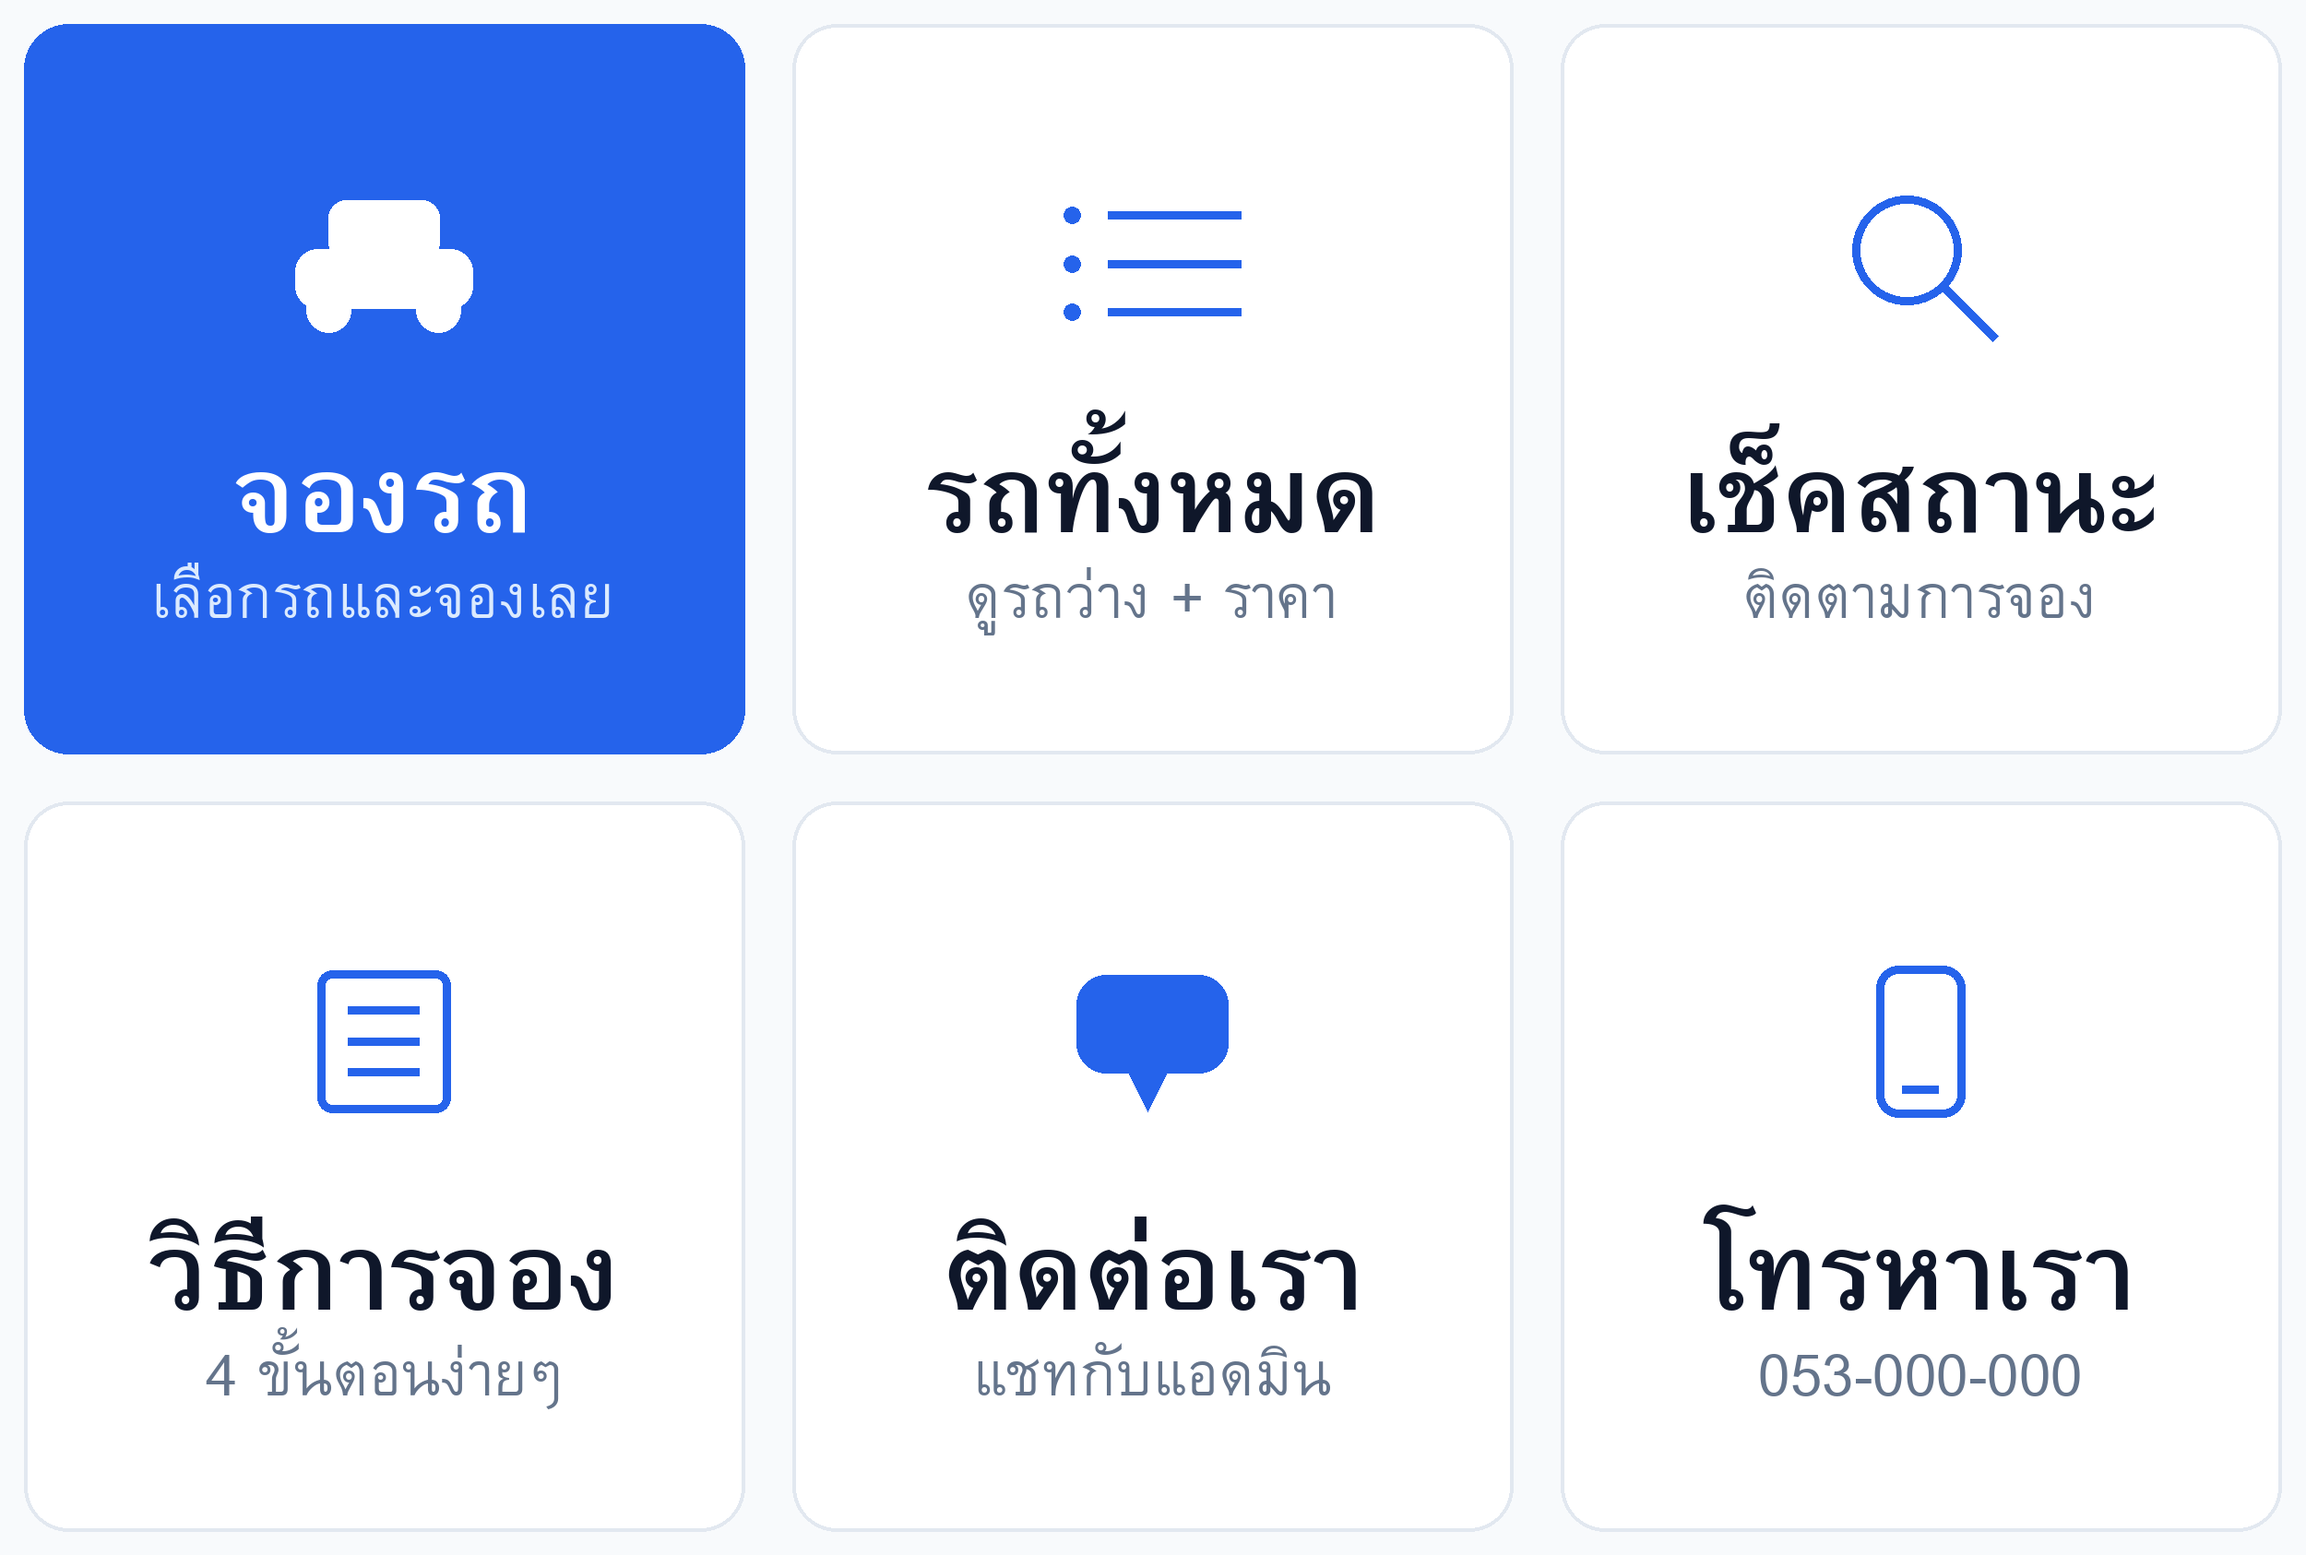
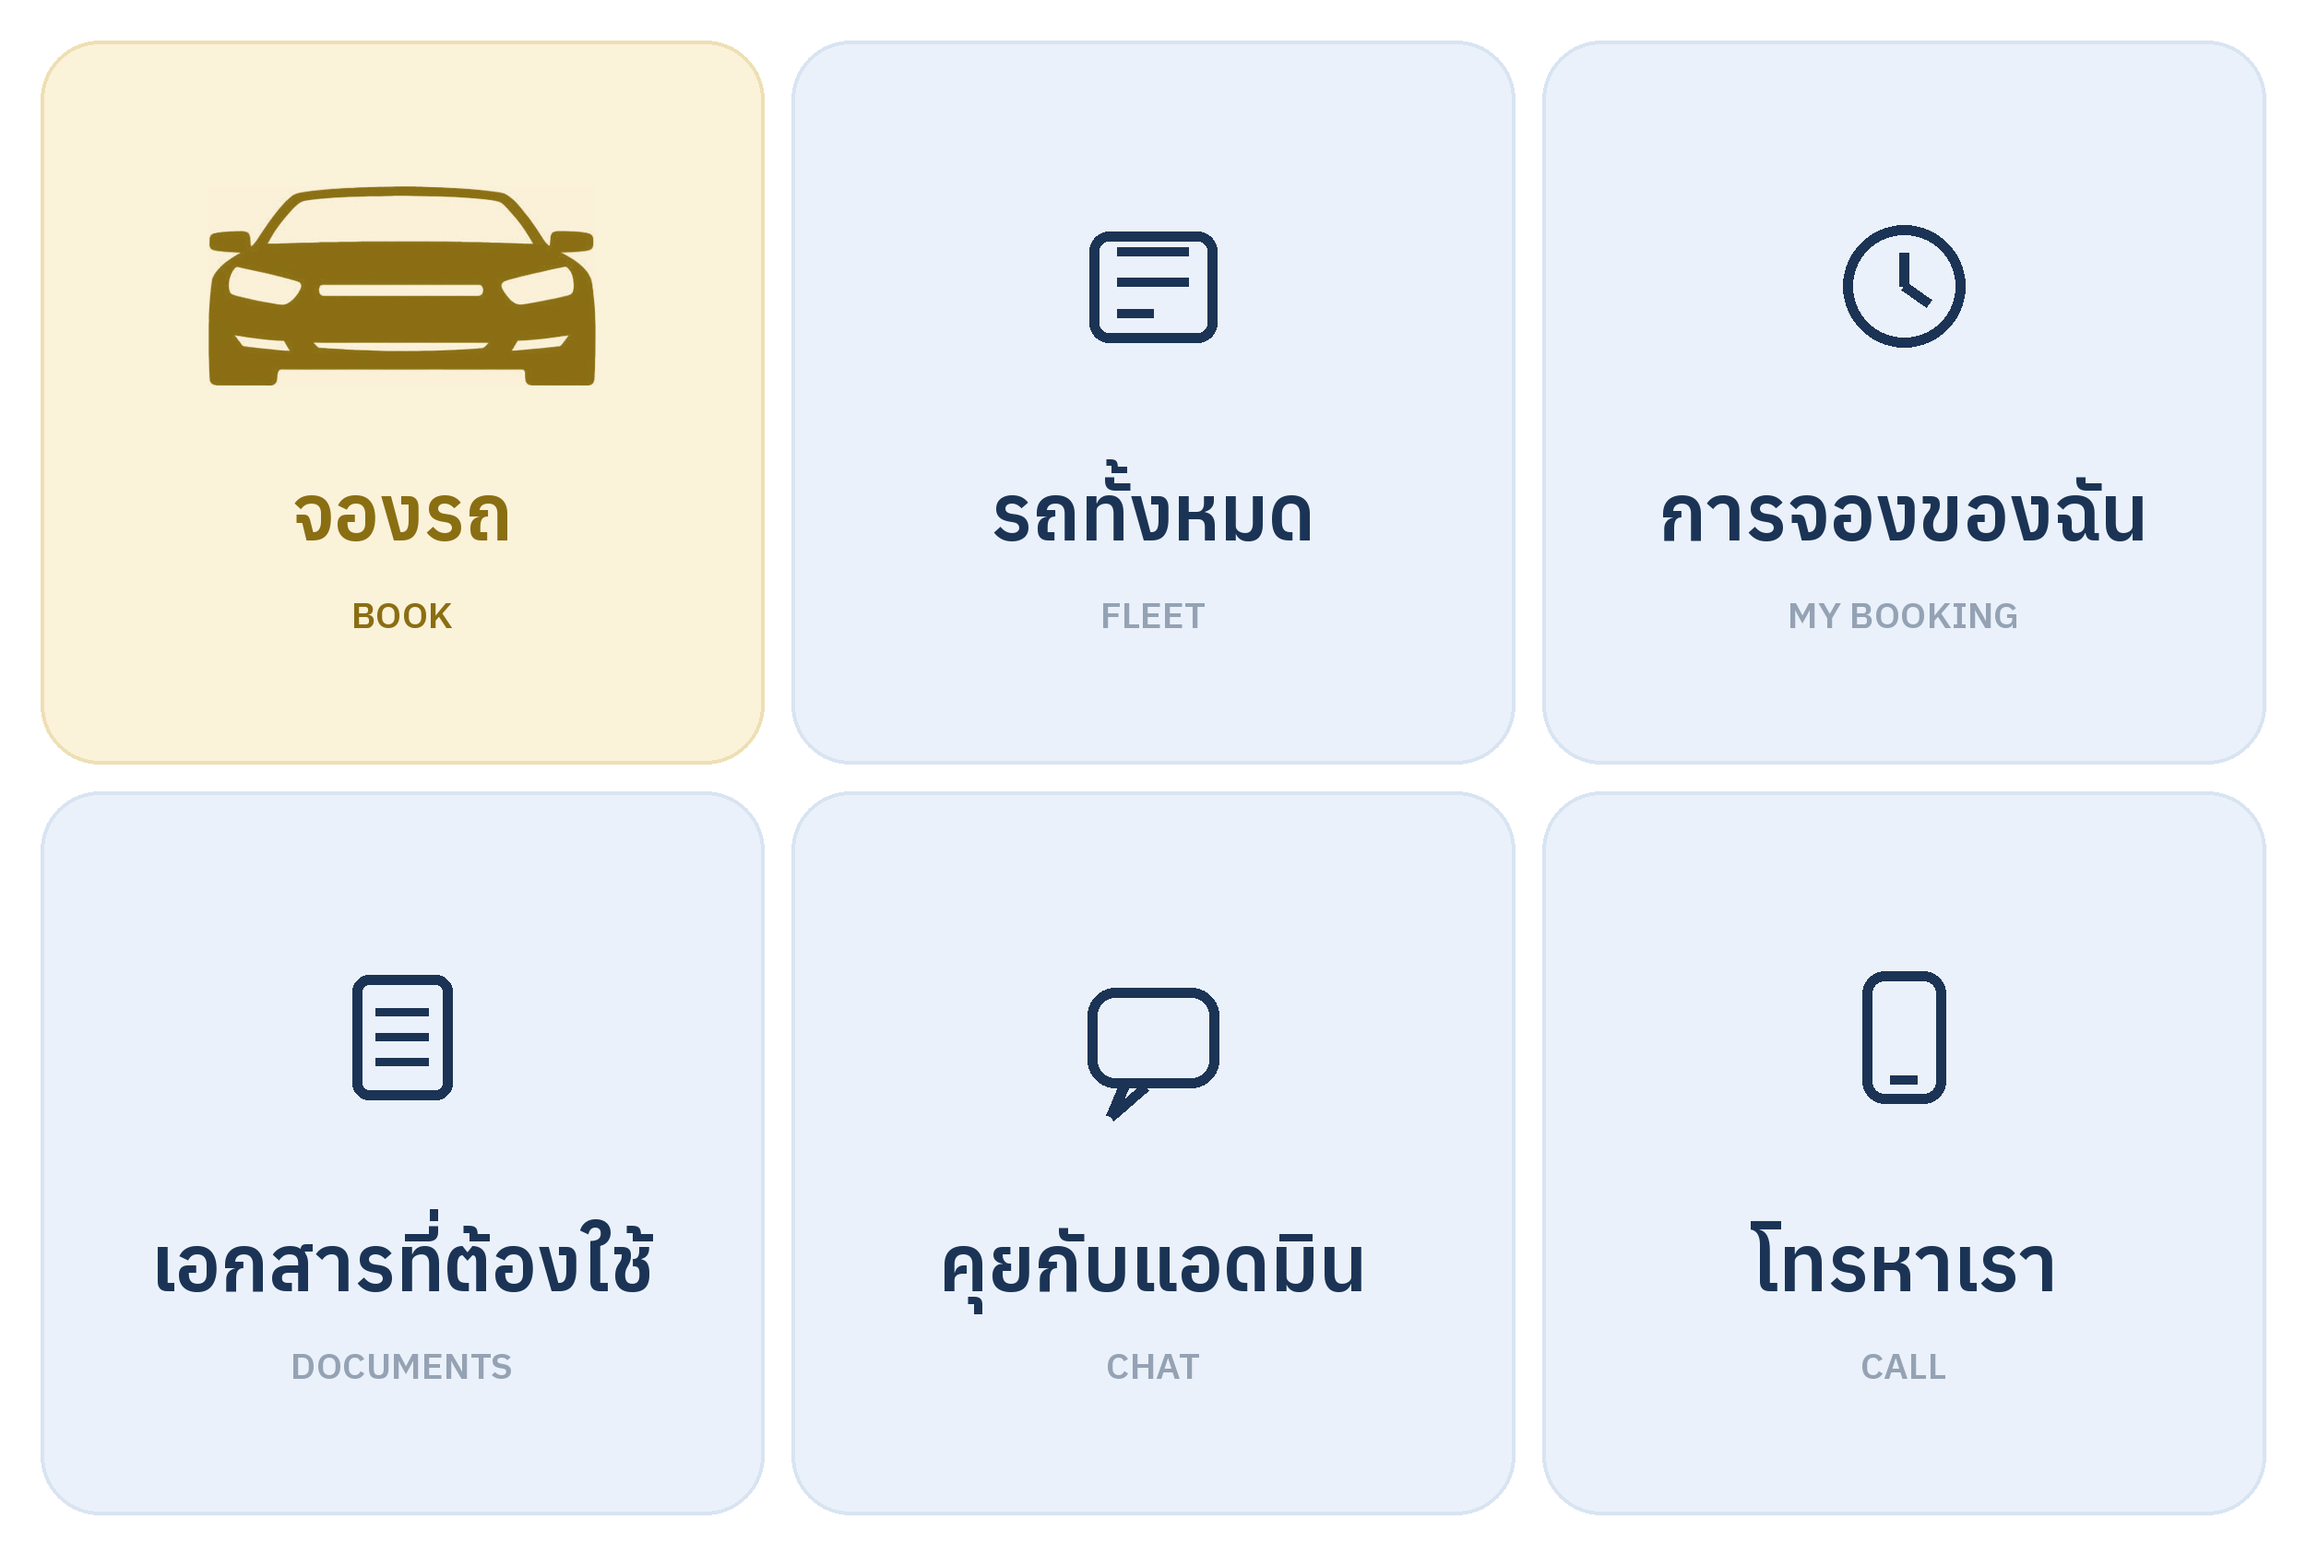
v0.2.1

diff --git a/components/AddAdminForm.tsx b/components/AddAdminForm.tsx
@@ -49,15 +49,23 @@ export default function AddAdminForm({
           <input id="new-name" name="name" required placeholder="สมชาย ใจดี" className={inputClass} />
         </div>
         <div>
-          <label className={labelClass} htmlFor="new-email">อีเมล (ใช้ล็อกอิน)</label>
+          <label className={labelClass} htmlFor="new-username">ชื่อผู้ใช้ (ใช้ล็อกอิน)</label>
           <input
-            id="new-email"
+            id="new-username"
             name="email"
-            type="email"
+            type="text"
             required
-            placeholder="somchai@example.com"
+            autoCapitalize="none"
+            autoComplete="off"
+            spellCheck={false}
+            pattern="[A-Za-z0-9._@-]{3,}"
+            title="ใช้ตัวอักษรอังกฤษ ตัวเลข จุด ขีด หรือขีดล่าง อย่างน้อย 3 ตัว"
+            placeholder="Sutimon"
             className={inputClass}
           />
+          <p className="mt-1 text-xs text-slate-500">
+            ภาษาอังกฤษหรือตัวเลข ห้ามเว้นวรรค · ใช้อีเมลก็ได้ถ้าต้องการ
+          </p>
         </div>
         <div>
           <label className={labelClass} htmlFor="new-password">รหัสผ่าน</label>
@@ -75,7 +83,7 @@ export default function AddAdminForm({
       </div>
 
       <p className="mt-4 text-sm text-slate-500">
-        สร้างบัญชีเสร็จแล้วค่อยกด “สร้างรหัสผูก LINE” ที่การ์ดของคนนั้นเพื่อเชื่อมการแจ้งเตือน
+        บอกชื่อผู้ใช้และรหัสผ่านให้เจ้าตัว แล้วให้เขาเข้าไปผูก LINE เองที่หน้า “บัญชีของฉัน”
       </p>
 
       <button

diff --git a/app/admin/users/page.tsx b/app/admin/users/page.tsx
@@ -24,12 +24,17 @@ async function addAdminAction(formData: FormData) {
   "use server";
   await requireDev();
 
+  // ช่องนี้คือ "ชื่อผู้ใช้" ที่ใช้ล็อกอิน — เก็บในคอลัมน์ email เพราะเป็นคีย์เฉพาะอยู่แล้ว
+  // จะใส่เป็นชื่อธรรมดา (Sutimon) หรืออีเมลเต็มก็ได้
   const email = String(formData.get("email") ?? "").trim().toLowerCase();
   const name = String(formData.get("name") ?? "").trim();
   const password = String(formData.get("password") ?? "");
 
   if (!email || !name || password.length < 8) {
     redirect("/admin/users?error=invalid");
+  }
+  if (!/^[a-z0-9._@-]{3,}$/.test(email)) {
+    redirect("/admin/users?error=username");
   }
 
   const existing = await prisma.adminUser.findUnique({ where: { email } });
@@ -163,7 +168,11 @@ const MESSAGES: Record<string, { text: string; tone: "ok" | "error" }> = {
     tone: "ok",
   },
   invalid: { text: "ข้อมูลไม่ครบ หรือรหัสผ่านสั้นกว่า 8 ตัวอักษร", tone: "error" },
-  duplicate: { text: "อีเมลนี้ถูกใช้งานแล้ว", tone: "error" },
+  duplicate: { text: "ชื่อผู้ใช้นี้ถูกใช้งานแล้ว", tone: "error" },
+  username: {
+    text: "ชื่อผู้ใช้ใช้ได้เฉพาะตัวอักษรอังกฤษ ตัวเลข . _ - @ และยาวอย่างน้อย 3 ตัว",
+    tone: "error",
+  },
   weakpassword: { text: "รหัสผ่านต้องยาวอย่างน้อย 8 ตัวอักษร", tone: "error" },
   self: { text: "ลบบัญชีตัวเองไม่ได้", tone: "error" },
   last: { text: "ลบไม่ได้ ต้องเหลือแอดมินอย่างน้อย 1 คน", tone: "error" },

diff --git a/app/login/page.tsx b/app/login/page.tsx
@@ -51,14 +51,14 @@ export default async function LoginPage({
                   <path d="M12 8v5" stroke="currentColor" strokeWidth="1.8" strokeLinecap="round" />
                   <circle cx="12" cy="16" r="1" fill="currentColor" />
                 </svg>
-                อีเมลหรือรหัสผ่านไม่ถูกต้อง
+                ชื่อผู้ใช้หรือรหัสผ่านไม่ถูกต้อง
               </div>
             )}
 
             <form action={loginAction} className="flex flex-col gap-4">
               <div>
                 <label htmlFor="email" className="block text-sm font-medium text-slate-700 mb-1.5">
-                  อีเมล หรือชื่อผู้ใช้
+                  ชื่อผู้ใช้
                 </label>
                 <input
                   id="email"
@@ -67,7 +67,7 @@ export default async function LoginPage({
                   required
                   autoComplete="username"
                   className="w-full rounded-xl bg-white border border-slate-200 px-4 py-3 text-sm text-slate-900 placeholder:text-slate-400 focus:outline-none focus:border-blue-500 focus:ring-4 focus:ring-blue-500/10 transition-colors"
-                  placeholder="admin@example.com"
+                  placeholder="Sutimon"
                 />
               </div>
               <div>
